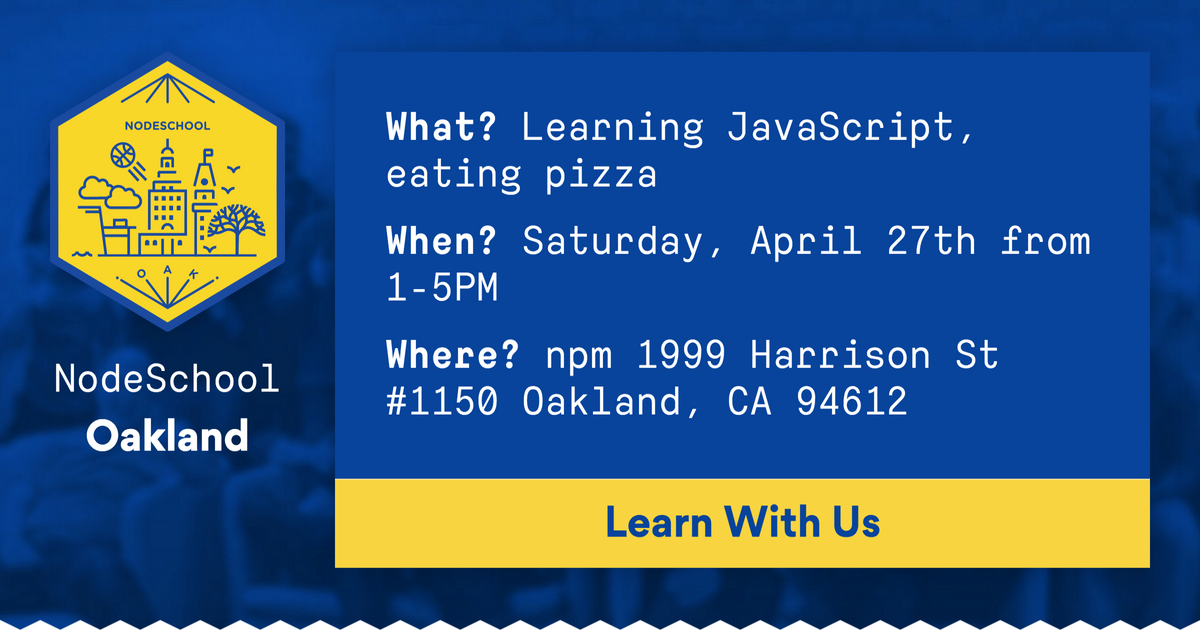
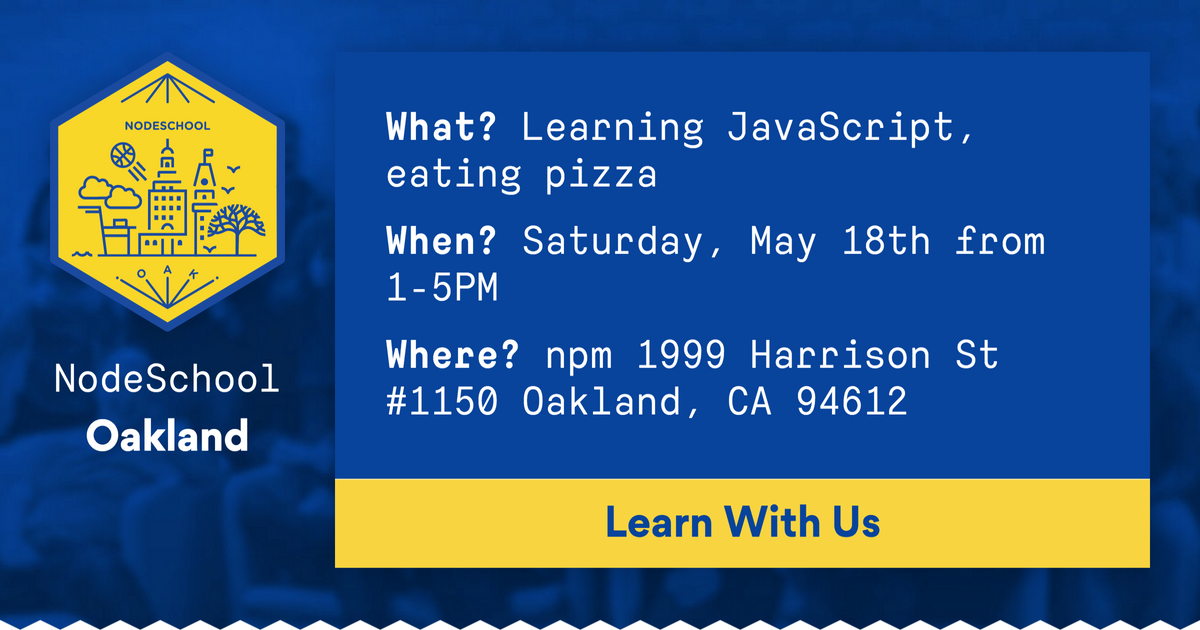
AUTOMATIC site update

Changed region(s): [[0.6167, 0.3619, 0.925, 0.4222]]

diff --git a/docs/index.html b/docs/index.html
@@ -7,14 +7,14 @@
     <meta property="og:type" content="website" />
     <meta property="og:description" content="NodeSchool Oakland is a monthly meetup dedicated to helping people learn JavaScript." />
     <meta property="og:url" content="https://nodeschool.io/oakland/" />
-    <meta property="og:image" content="https://nodeschool.io/oakland/images/social.png?t=1554413966624" />
+    <meta property="og:image" content="https://nodeschool.io/oakland/images/social.png?t=1556507130882" />
     <!--Twitter-->
     <meta name="twitter:card" content="summary_large_image">
     <meta name="twitter:site" content="@nodeschooloak">
     <meta name="twitter:creator" content="@nodeschooloak">
     <meta name="twitter:title" content="NodeSchool Oakland">
     <meta name="twitter:description" content="NodeSchool Oakland is a monthly meetup dedicated to helping people learn JavaScript.">
-    <meta name="twitter:image" content="https://nodeschool.io/oakland/images/social.png?t=1554413966624">
+    <meta name="twitter:image" content="https://nodeschool.io/oakland/images/social.png?t=1556507130882">
 
     <title>NodeSchool Oakland</title>
     <link rel="stylesheet" href="./styles/index.css" />
@@ -63,10 +63,10 @@
 
           <div class="next-event">
             <div class="next-event__description">
-              <h2 class="next-event__heading">Our Next Event is on April 27th</h2>
+              <h2 class="next-event__heading">Our Next Event is on May 18th</h2>
               <ul class="next-event__info">
                 <li class="next-event__info__item">
-                  <strong class="strong--alt">When?</strong> Saturday, April 27th from 1-5PM
+                  <strong class="strong--alt">When?</strong> Saturday, May 18th from 1-5PM
                 </li>
                 <li class="next-event__info__item">
                   <strong class="strong--alt">Where?</strong> npm 1999 Harrison St #1150 Oakland, CA 94612 [<a href="http://maps.google.com/?q=1999%20Harrison%20St%20%231150%20Oakland%2C%20CA%2094612">map</a>]
@@ -77,9 +77,9 @@
               </ul>
             </div>
             <nav class="next-event__actions">
-              <a class="next-event__action__learner next-event__action button" href="https:&#x2F;&#x2F;ti.to&#x2F;nodeschool-oakland&#x2F;nodeschool-oakland-april-2019">
+              <a class="next-event__action__learner next-event__action button" href="https:&#x2F;&#x2F;ti.to&#x2F;nodeschool-oakland&#x2F;nodeschool-oakland-may-2019">
                 Sign up as a Learner
-              </a><a class="next-event__action__mentor next-event__action button" href="https:&#x2F;&#x2F;github.com&#x2F;nodeschool&#x2F;oakland&#x2F;issues&#x2F;74">
+              </a><a class="next-event__action__mentor next-event__action button" href="https:&#x2F;&#x2F;github.com&#x2F;nodeschool&#x2F;oakland&#x2F;issues&#x2F;75">
                 Sign up as a Mentor
               </a>
             </nav>

diff --git a/docs/social.html b/docs/social.html
@@ -20,7 +20,7 @@
         <div class="social__message next-event">
           <div class="next-event__description">
             <p><strong>What?</strong> Learning JavaScript, eating pizza</p>
-            <p><strong>When?</strong> Saturday, April 27th from 1-5PM</p>
+            <p><strong>When?</strong> Saturday, May 18th from 1-5PM</p>
             <p><strong>Where?</strong> npm 1999 Harrison St #1150 Oakland, CA 94612</p>
           </div>
           <div class="next-event__actions">
